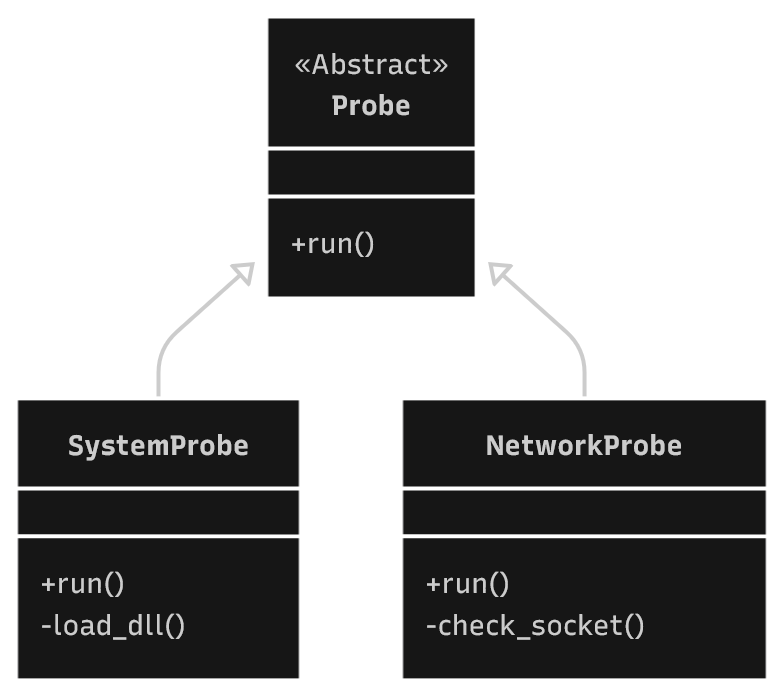
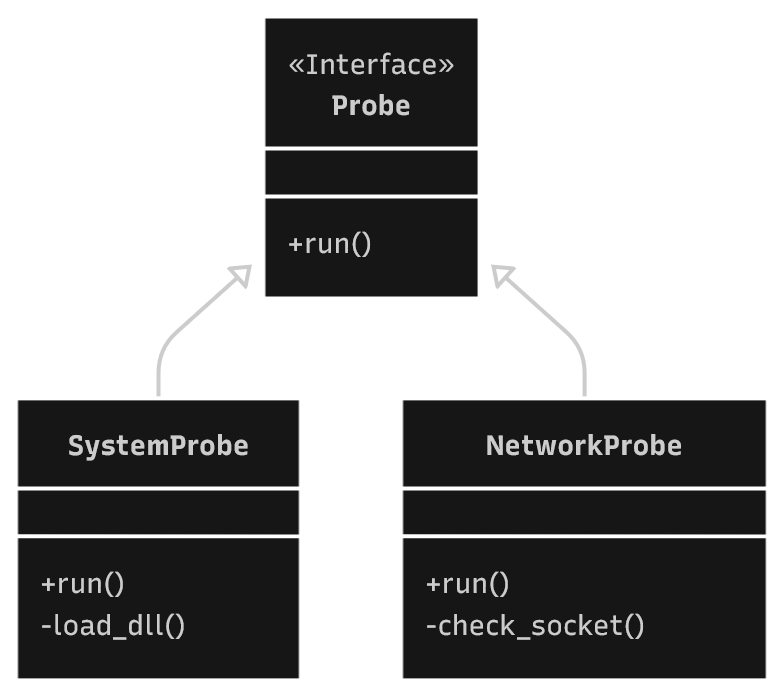
class diagram size

Changed region(s): [[0.2755, 0.0302, 0.6735, 0.4224]]

diff --git a/README.md b/README.md
@@ -27,14 +27,14 @@ The tool uses a modular architecture where Python allocates memory buffers and p
 While Python can access system info, using C++ allows for:
 * Stealth: Native windows.h calls are harder to spoof than high-level wrappers
 * Performance: Direct memory manipulation via pointers
-* Proof of concept: Demonstrates how to handle buffers and memory allocation between high-level (Python) and low-level (C++) languages   
+* Integration: Demonstrates how to handle buffers between high-level (Python) and low-level (C++) languages   
 
 Using C++ also taught me how to interact with multiple languages in a single project
 
 ## Code structure
 The project uses an object oriented design using an abstract base class to allow easy scalability (adding new probes)  
 
-<p align="center"><img src="img/class.png" height=400></p>  
+<p align="center"><img src="img/class.png" height=450></p>  
 
 ## Results & output
 
@@ -62,7 +62,7 @@ Log sent to (SIEM simulation): c:\Users\[...]\logs\activity.log
 ```
 
 ### JSON report 
-A structured file is generated for automated processing (SIEM simulation)
+A structured file is generated for automated processing in the output folder (SIEM simulation)
 ```json
 {
     "time": "2025-11-30T20:41:30.296270",
@@ -93,17 +93,17 @@ A structured file is generated for automated processing (SIEM simulation)
 ```
 
 ### Activity log
-A new line is added to the activity.log file
+A new line is added to the activity log file in the logs folder
 
-```log
-[2025-11-30T20:41:30.296270] [Safe] Scan complete, ports open: 0, debugger: False
+```yaml
+[2025-11-30T20:41:30.296270] [Safe] Scan complete, ports open: 0, debugger: False
 ```
 
 ## How to run
-The project is pre-compiled for Windows systems (telemetry.dll in /bin)
+The project is pre-compiled for Windows systems (telemetry.dll)
 
 ### Easy execution
-Simply double-click the "run.bat" script at the root of the repository
+Simply double-click the run.bat script at the root of the repository
 
 ### Manual execution
 
